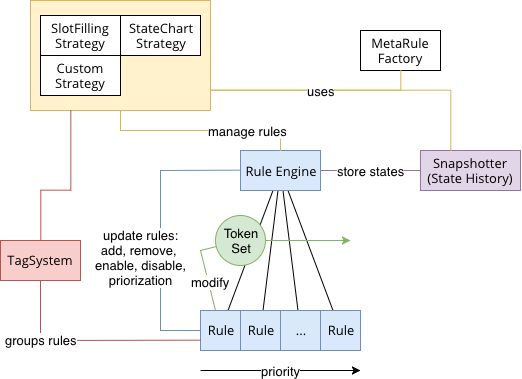
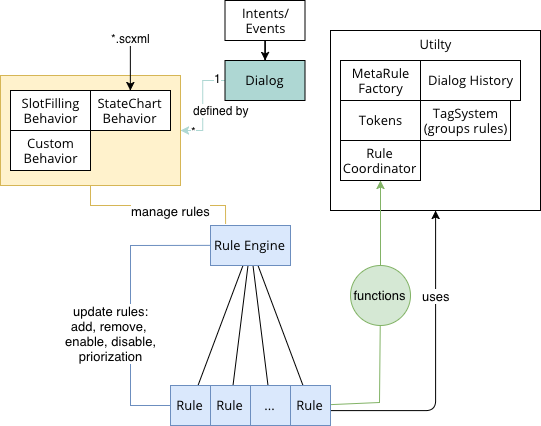
updated doc

diff --git a/rengine/readme.md b/rengine/readme.md
@@ -36,9 +36,9 @@ A rule engine, where rules act on tokens (arbitrary data like a map). The main i
 
 
 
-# Components
+## Components
 
-## Rules
+### Rules
 
 - Rules are a persistent data structure. They don't change. If they have to too, you need to create a new rule and remove the old one.
 - The structure of a rule is void -> void: Hence, Condition checking and execution is done through additional objects that are captured in the context of the function. In general, they have access to the dialog object such that the knowledge base can be accessed etc...
@@ -72,33 +72,35 @@ tagSystem.addTag("greetings", "meta");
 
 
 
-## Tag-System
+### Tag-System
 
 Tag-System: Allows to annotate multiple rules with a tag, which facilates to enable multiple rules simultaneously. 
 
 
 
-## Token
+### Token
 
 Simple persistent data structure in the form of String -> Object. In general used as input event to forward intents into the dialog.
 
 
 
-## Dialog
+### Dialog
+
+Core class that makes the components accessible to each other.
 
 
 
 
+### RuleCoordinator
 
-## other
+
+
+### other
 
 - Grammar rules are chosen and merged based on the current set of active rules
 
 
 
-## Add to Doc
-- Where to save data? sensor data (data is derived from the real world or simulation; e.g. changes frequently) should be stored in a knowledge base that can be accessed by the dialog. The dialog itself should not store any information in the knowledge base that represents its own state. Such information should be stored inside a behavior in an inmutable or persistent data structure. This is necessary to create persistent dialog history.
-- State chart as an abstraction: Rule may fire events in into the state chart which in response change the set of active rules. A state chart manages a specific set of rules which defined in table (*.csv file). The state chart is stored in the scxml format. The implementation does not support *parallel* or *history* states. It should be checked whether they are necessary or meaningful, because with the persistent dialog history the system supports already a 'history'-feature.
 
 ## TODOs
 
@@ -118,3 +120,8 @@ Hence it should be checked whether it is possible to store and then load the gra
 
 - comfortable way for voice input, because webbrowser are ubiquitous
 - probably requires https (e.g. in chrome mandatory) 
+
+
+#### Add to Doc
+- Where to save data? sensor data (data is derived from the real world or simulation; e.g. changes frequently) should be stored in a knowledge base that can be accessed by the dialog. The dialog itself should not store any information in the knowledge base that represents its own state. Such information should be stored inside a behavior in an inmutable or persistent data structure. This is necessary to create persistent dialog history.
+- State chart as an abstraction: Rule may fire events in into the state chart which in response change the set of active rules. A state chart manages a specific set of rules which defined in table (*.csv file). The state chart is stored in the scxml format. The implementation does not support *parallel* or *history* states. It should be checked whether they are necessary or meaningful, because with the persistent dialog history the system supports already a 'history'-feature.
